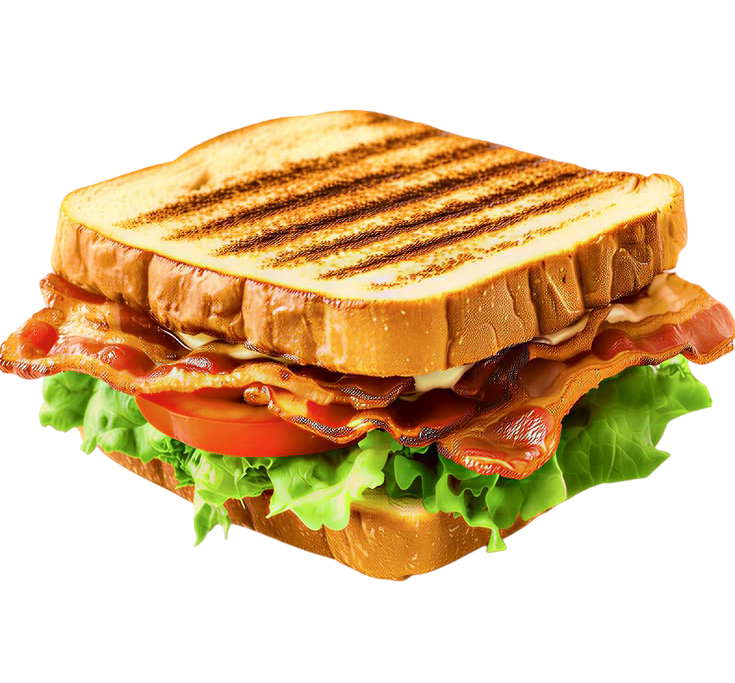
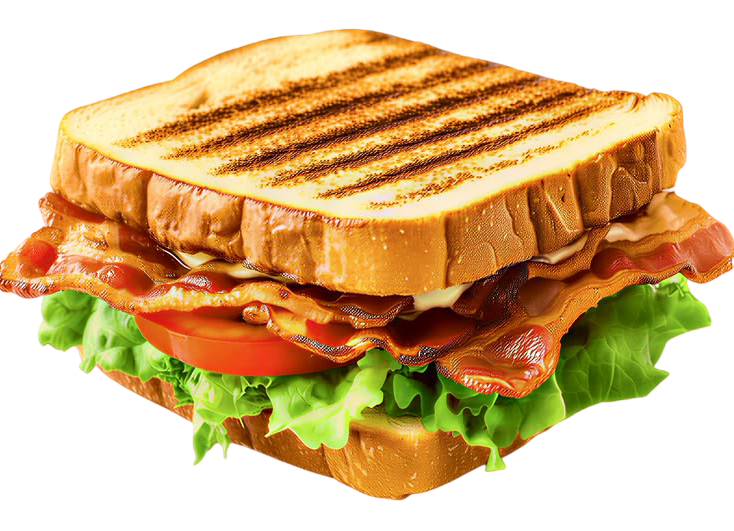
Update site

diff --git a/src/App.jsx b/src/App.jsx
@@ -1,6 +1,6 @@
 import { useEffect, useState, useRef } from "react";
 import { motion, AnimatePresence } from "framer-motion";
-import { Play, Menu as MenuIcon, X } from "lucide-react";
+import { Play, Menu as MenuIcon, X, Phone } from "lucide-react";
 import { siInstagram } from "simple-icons/icons";
 import logo from "./assets/logo.jpg";
 import sandwichImg from "./assets/sandwich.png";
@@ -14,9 +14,9 @@ const fadeUp = {
   visible: { opacity: 1, y: 0 },
 };
 
-const SectionLabel = ({ number, label }) => (
+const SectionLabel = ({ label }) => (
   <p className="text-xs tracking-[0.2em] text-ember font-medium mb-3">
-    {number} — {label}
+    {label}
   </p>
 );
 
@@ -256,7 +256,7 @@ const App = () => {
 
       {/* Menu */}
       <section id="menu" className="max-w-5xl mx-auto px-6 py-24">
-        <SectionLabel number="01" label="MENU" />
+        <SectionLabel label="MENU" />
         <h2 className="font-heading font-bold text-4xl md:text-5xl mb-16">
           What we sell
         </h2>
@@ -368,7 +368,7 @@ const App = () => {
         id="reels"
         className="max-w-5xl mx-auto px-6 py-24 border-t border-ink/10"
       >
-        <SectionLabel number="02" label="SOCIAL" />
+        <SectionLabel label="SOCIAL" />
         <h2 className="font-heading font-bold text-4xl md:text-5xl mb-16">
           See us in action
         </h2>
@@ -395,13 +395,13 @@ const App = () => {
         id="reviews"
         className="max-w-5xl mx-auto px-6 py-24 border-t border-ink/10"
       >
-        <SectionLabel number="03" label="WORD OF MOUTH" />
+        <SectionLabel label="WORD OF MOUTH" />
         <h2 className="font-heading font-bold text-4xl md:text-5xl mb-4">
           What people say
         </h2>
         <p className="text-steel text-sm mb-16 max-w-md">
-          Real Instagram comments from real customers. Visit us and
-          leave your own comment to be featured here.
+          Real Instagram comments from real customers. Visit us and leave your
+          own comment to be featured here.
         </p>
         <div className="grid grid-cols-1 sm:grid-cols-3 gap-6">
           {reelComments.map((c, i) => (
@@ -428,7 +428,7 @@ const App = () => {
         id="map"
         className="max-w-5xl mx-auto px-6 py-24 border-t border-ink/10"
       >
-        <SectionLabel number="04" label="FIND US" />
+        <SectionLabel label="FIND US" />
         <h2 className="font-heading font-bold text-4xl md:text-5xl mb-16">
           Locate our shop
         </h2>
@@ -451,7 +451,7 @@ const App = () => {
       {/* Footer / Visit */}
       <footer id="contact" className="bg-ink text-paper py-24">
         <div className="max-w-5xl mx-auto px-6">
-          <SectionLabel number="05" label="VISIT" />
+          <SectionLabel label="CONTACT" />
           <h2 className="font-heading font-bold text-4xl md:text-5xl mb-16">
             Come taste it yourself
           </h2>
@@ -464,6 +464,23 @@ const App = () => {
             </p>
             <p className="text-paper/70 text-base mb-8">
               Open daily, 3:30 PM to 11:00 PM
+            </p>
+
+            <p className="text-paper/70 text-base mb-8 flex items-center gap-2">
+              <Phone className="w-4 h-4" />
+              <a
+                href="tel:+918539000386"
+                className="hover:text-marigold transition-colors"
+              >
+                +91 85390 00386
+              </a>
+              <span className="text-paper/30">/</span>
+              <a
+                href="tel:+918709437937"
+                className="hover:text-marigold transition-colors"
+              >
+                +91 87094 37937
+              </a>
             </p>
             <div className="flex flex-wrap gap-4">
               <a
